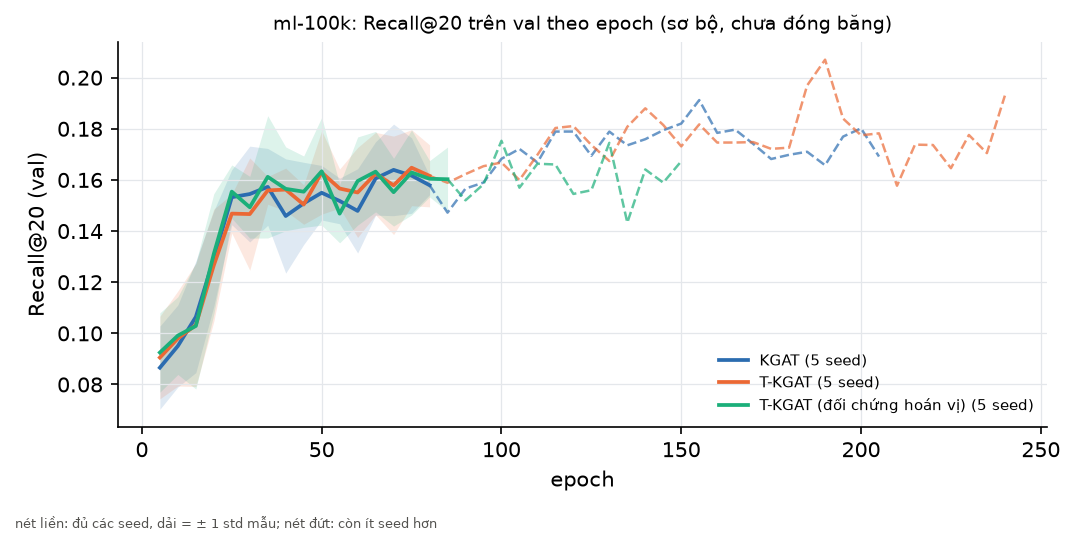
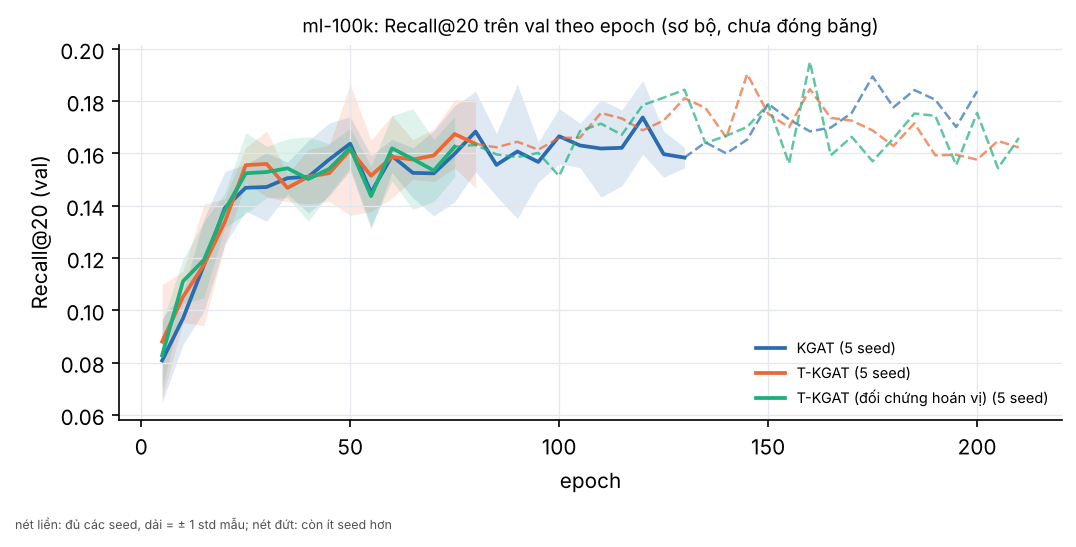
exp: RQ3 table, pairs and val curves regenerated from the 0011 re-run
scripts/10_rq3_table.py on main after #37 and #38: the main tables now hold the KG-with-MovieLens-metadata runs of 0e194e3;
the Wikidata-only runs move to the appendix superseded by 0011. No Stage 2 rows yet.

Claude-Session: https://claude.ai/code/session_01DzGnjeSbyz8jrxSSmAPpJn

diff --git a/docs/rq3-table.md b/docs/rq3-table.md
@@ -4,7 +4,7 @@
 >
 > **ml-1m-u10 là 10% user của ML-1M, không phải ML-1M đầy đủ.**
 
-Nguồn: `results/registry.csv` qua `registry.load`, chỉ dòng `phase = test` không mang nhãn `-dirty`; mỗi mô hình lấy điểm của lần chạy mới nhất trên split mới nhất. Trung bình ± độ lệch chuẩn **mẫu** (`ddof=1`) qua các seed; một seed thì không có độ lệch chuẩn. Kiểm định: Wilcoxon cặp theo từng user (`tkgat.eval.stats`) trên trung bình các seed chung, Holm trong cùng bộ dữ liệu và metric, họ cố định gồm ba phép so sánh.
+Nguồn: `results/registry.csv` qua `registry.load`, chỉ dòng `phase = test` không mang nhãn `-dirty`; mỗi mô hình lấy điểm của lần chạy mới nhất trên split mới nhất. Trung bình ± độ lệch chuẩn **mẫu** (`ddof=1`) qua các seed; một seed thì không có độ lệch chuẩn. Kiểm định: Wilcoxon cặp theo từng user (`tkgat.eval.stats`) trên trung bình các seed chung, Holm trong cùng bộ dữ liệu và metric, họ cố định gồm ba phép so sánh; hai phép của giai đoạn 2 (nếu có) là một họ riêng. KG gồm fact Wikidata (bản chụp 2026) và metadata MovieLens (quyết định 0011).
 
 ## ml-100k (user test: 51)
 
@@ -13,21 +13,21 @@ Nguồn: `results/registry.csv` qua `registry.load`, chỉ dòng `phase = test` 
 | MostPop | window_days = None | 0,1555 | 0,1451 | 1 |
 | MostPop recent | window_days = 14 | 0,3372 | 0,2870 | 1 |
 | BPR-MF | dim = 32, l2 = 0.0001, lr = 0.001 | 0,1471 ± 0,0295 | 0,1549 ± 0,0170 | 5 |
-| KGAT [sơ bộ] | l2 = 0.0001, l2_kg = 1e-05, lr = 0.001, mess_dropout = 0.1 | 0,2025 ± 0,0116 | 0,1753 ± 0,0107 | 5 |
+| KGAT [sơ bộ] | l2 = 0.0001, l2_kg = 1e-05, lr = 0.001, mess_dropout = 0.1 | 0,2096 ± 0,0284 | 0,1859 ± 0,0104 | 5 |
 | KGAT không KG [sơ bộ] | l2 = 0.0001, l2_kg = 1e-05, lr = 0.001, mess_dropout = 0.1 | 0,2017 ± 0,0232 | 0,1764 ± 0,0185 | 5 |
-| T-KGAT [sơ bộ] | gamma = 1, l2 = 0.0001, l2_kg = 1e-05, lr = 0.001, mess_dropout = 0.1 | 0,2165 ± 0,0104 | 0,1843 ± 0,0076 | 5 |
-| T-KGAT (đối chứng hoán vị) [sơ bộ] | gamma = 1, l2 = 0.0001, l2_kg = 1e-05, lr = 0.001, mess_dropout = 0.1 | 0,1989 ± 0,0176 | 0,1754 ± 0,0061 | 5 |
+| T-KGAT [sơ bộ] | gamma = 3, l2 = 0.0001, l2_kg = 1e-05, lr = 0.001, mess_dropout = 0.1 | 0,2151 ± 0,0174 | 0,1840 ± 0,0136 | 5 |
+| T-KGAT (đối chứng hoán vị) [sơ bộ] | gamma = 3, l2 = 0.0001, l2_kg = 1e-05, lr = 0.001, mess_dropout = 0.1 | 0,1950 ± 0,0156 | 0,1789 ± 0,0099 | 5 |
 
 **So sánh cặp** (hiệu = trước − sau):
 
 | So sánh | Metric | Seed chung | n_pairs | n_nonzero | Hiệu trung bình | p thô | p Holm | Ghi chú |
 |---|---|---|---|---|---|---|---|---|
-| T-KGAT so với KGAT | Recall@20 | 5 | 51 | 27 | 0,0140 | 0,163 | 0,333 | only 51 evaluation users (< 100); only 27 non-zero differences (< 30) |
-| T-KGAT thật so với hoán vị | Recall@20 | 5 | 51 | 28 | 0,0176 | 0,111 | 0,333 | only 51 evaluation users (< 100); only 28 non-zero differences (< 30) |
-| KGAT so với KGAT không KG | Recall@20 | 5 | 51 | 26 | 0,0008 | 0,919 | 0,919 | only 51 evaluation users (< 100); only 26 non-zero differences (< 30) |
-| T-KGAT so với KGAT | NDCG@20 | 5 | 51 | 33 | 0,0090 | 0,098 | 0,295 | only 51 evaluation users (< 100) |
-| T-KGAT thật so với hoán vị | NDCG@20 | 5 | 51 | 33 | 0,0089 | 0,249 | 0,498 | only 51 evaluation users (< 100) |
-| KGAT so với KGAT không KG | NDCG@20 | 5 | 51 | 32 | -0,0011 | 0,681 | 0,681 | only 51 evaluation users (< 100) |
+| T-KGAT so với KGAT | Recall@20 | 5 | 51 | 22 | 0,0055 | 0,733 | 1,000 | only 51 evaluation users (< 100); only 22 non-zero differences (< 30) |
+| T-KGAT thật so với hoán vị | Recall@20 | 5 | 51 | 29 | 0,0201 | 0,315 | 0,944 | only 51 evaluation users (< 100); only 29 non-zero differences (< 30) |
+| KGAT so với KGAT không KG | Recall@20 | 5 | 51 | 28 | 0,0079 | 0,909 | 1,000 | only 51 evaluation users (< 100); only 28 non-zero differences (< 30) |
+| T-KGAT so với KGAT | NDCG@20 | 5 | 51 | 35 | -0,0019 | 0,512 | 0,651 | only 51 evaluation users (< 100) |
+| T-KGAT thật so với hoán vị | NDCG@20 | 5 | 51 | 34 | 0,0051 | 0,326 | 0,651 | only 51 evaluation users (< 100) |
+| KGAT so với KGAT không KG | NDCG@20 | 5 | 51 | 35 | 0,0095 | 0,196 | 0,587 | only 51 evaluation users (< 100) |
 
 ![Learning curve val của KGAT, T-KGAT và T-KGAT hoán vị trên ml-100k](figures/rq3_curves_ml-100k.png)
 
@@ -40,20 +40,33 @@ Nguồn: `results/registry.csv` qua `registry.load`, chỉ dòng `phase = test` 
 | MostPop | window_days = None | 0,0846 | 0,1623 | 1 |
 | MostPop recent | window_days = 3 | 0,1007 | 0,1619 | 1 |
 | BPR-MF | dim = 32, l2 = 0.0001, lr = 0.001 | 0,1000 ± 0,0069 | 0,1889 ± 0,0102 | 5 |
-| KGAT [sơ bộ] | l2 = 0.0001, l2_kg = 1e-05, lr = 0.001, mess_dropout = 0.1 | 0,1121 ± 0,0071 | 0,1989 ± 0,0071 | 5 |
+| KGAT [sơ bộ] | l2 = 1e-05, l2_kg = 1e-05, lr = 0.001, mess_dropout = 0.1 | 0,1086 ± 0,0054 | 0,1873 ± 0,0139 | 5 |
 | KGAT không KG [sơ bộ] | l2 = 0.0001, l2_kg = 1e-05, lr = 0.001, mess_dropout = 0.1 | 0,1042 ± 0,0101 | 0,1773 ± 0,0160 | 5 |
-| T-KGAT [sơ bộ] | gamma = 1, l2 = 0.0001, l2_kg = 1e-05, lr = 0.001, mess_dropout = 0.1 | 0,1104 ± 0,0074 | 0,1964 ± 0,0041 | 5 |
-| T-KGAT (đối chứng hoán vị) [sơ bộ] | gamma = 1, l2 = 0.0001, l2_kg = 1e-05, lr = 0.001, mess_dropout = 0.1 | 0,1107 ± 0,0078 | 0,1956 ± 0,0049 | 5 |
+| T-KGAT [sơ bộ] | gamma = 1, l2 = 1e-05, l2_kg = 1e-05, lr = 0.001, mess_dropout = 0.1 | 0,1113 ± 0,0046 | 0,1942 ± 0,0056 | 5 |
+| T-KGAT (đối chứng hoán vị) [sơ bộ] | gamma = 1, l2 = 1e-05, l2_kg = 1e-05, lr = 0.001, mess_dropout = 0.1 | 0,1119 ± 0,0049 | 0,1951 ± 0,0079 | 5 |
 
 **So sánh cặp** (hiệu = trước − sau):
 
 | So sánh | Metric | Seed chung | n_pairs | n_nonzero | Hiệu trung bình | p thô | p Holm | Ghi chú |
 |---|---|---|---|---|---|---|---|---|
-| T-KGAT so với KGAT | Recall@20 | 5 | 95 | 68 | -0,0017 | 0,623 | 1,000 | only 95 evaluation users (< 100) |
-| T-KGAT thật so với hoán vị | Recall@20 | 5 | 95 | 63 | -0,0004 | 0,758 | 1,000 | only 95 evaluation users (< 100) |
-| KGAT so với KGAT không KG | Recall@20 | 5 | 95 | 74 | 0,0079 | 0,0068 | 0,020 | only 95 evaluation users (< 100) |
-| T-KGAT so với KGAT | NDCG@20 | 5 | 95 | 83 | -0,0025 | 0,928 | 0,928 | only 95 evaluation users (< 100) |
-| T-KGAT thật so với hoán vị | NDCG@20 | 5 | 95 | 81 | 0,0009 | 0,317 | 0,634 | only 95 evaluation users (< 100) |
-| KGAT so với KGAT không KG | NDCG@20 | 5 | 95 | 84 | 0,0217 | < 0,001 | < 0,001 | only 95 evaluation users (< 100) |
+| T-KGAT so với KGAT | Recall@20 | 5 | 95 | 66 | 0,0027 | 0,225 | 0,450 | only 95 evaluation users (< 100) |
+| T-KGAT thật so với hoán vị | Recall@20 | 5 | 95 | 65 | -0,0006 | 0,360 | 0,450 | only 95 evaluation users (< 100) |
+| KGAT so với KGAT không KG | Recall@20 | 5 | 95 | 75 | 0,0044 | 0,048 | 0,143 | only 95 evaluation users (< 100) |
+| T-KGAT so với KGAT | NDCG@20 | 5 | 95 | 82 | 0,0069 | 0,016 | 0,049 | only 95 evaluation users (< 100) |
+| T-KGAT thật so với hoán vị | NDCG@20 | 5 | 95 | 82 | -0,0008 | 0,833 | 0,833 | only 95 evaluation users (< 100) |
+| KGAT so với KGAT không KG | NDCG@20 | 5 | 95 | 84 | 0,0100 | 0,016 | 0,049 | only 95 evaluation users (< 100) |
 
 ![Learning curve val của KGAT, T-KGAT và T-KGAT hoán vị trên ml-1m-u10](figures/rq3_curves_ml-1m-u10.png)
+
+## Phụ lục: KG chỉ có Wikidata (bị thay bởi quyết định 0011)
+
+> Các dòng này chạy trước quyết định 0011, trên KG chưa có metadata MovieLens. Chúng **không phải kết quả chính thức**; giữ lại để người đọc thấy cả hai, vì KG được đổi sau khi điểm test của chúng đã được xem.
+
+| Bộ dữ liệu | Mô hình | Cấu hình | Recall@20 (test) | NDCG@20 (test) | Số seed |
+|---|---|---|---|---|---|
+| ml-100k | KGAT | l2 = 0.0001, l2_kg = 1e-05, lr = 0.001, mess_dropout = 0.1 | 0,2025 ± 0,0116 | 0,1753 ± 0,0107 | 5 |
+| ml-100k | T-KGAT | gamma = 1, l2 = 0.0001, l2_kg = 1e-05, lr = 0.001, mess_dropout = 0.1 | 0,2165 ± 0,0104 | 0,1843 ± 0,0076 | 5 |
+| ml-100k | T-KGAT (đối chứng hoán vị) | gamma = 1, l2 = 0.0001, l2_kg = 1e-05, lr = 0.001, mess_dropout = 0.1 | 0,1989 ± 0,0176 | 0,1754 ± 0,0061 | 5 |
+| ml-1m-u10 | KGAT | l2 = 0.0001, l2_kg = 1e-05, lr = 0.001, mess_dropout = 0.1 | 0,1121 ± 0,0071 | 0,1989 ± 0,0071 | 5 |
+| ml-1m-u10 | T-KGAT | gamma = 1, l2 = 0.0001, l2_kg = 1e-05, lr = 0.001, mess_dropout = 0.1 | 0,1104 ± 0,0074 | 0,1964 ± 0,0041 | 5 |
+| ml-1m-u10 | T-KGAT (đối chứng hoán vị) | gamma = 1, l2 = 0.0001, l2_kg = 1e-05, lr = 0.001, mess_dropout = 0.1 | 0,1107 ± 0,0078 | 0,1956 ± 0,0049 | 5 |
